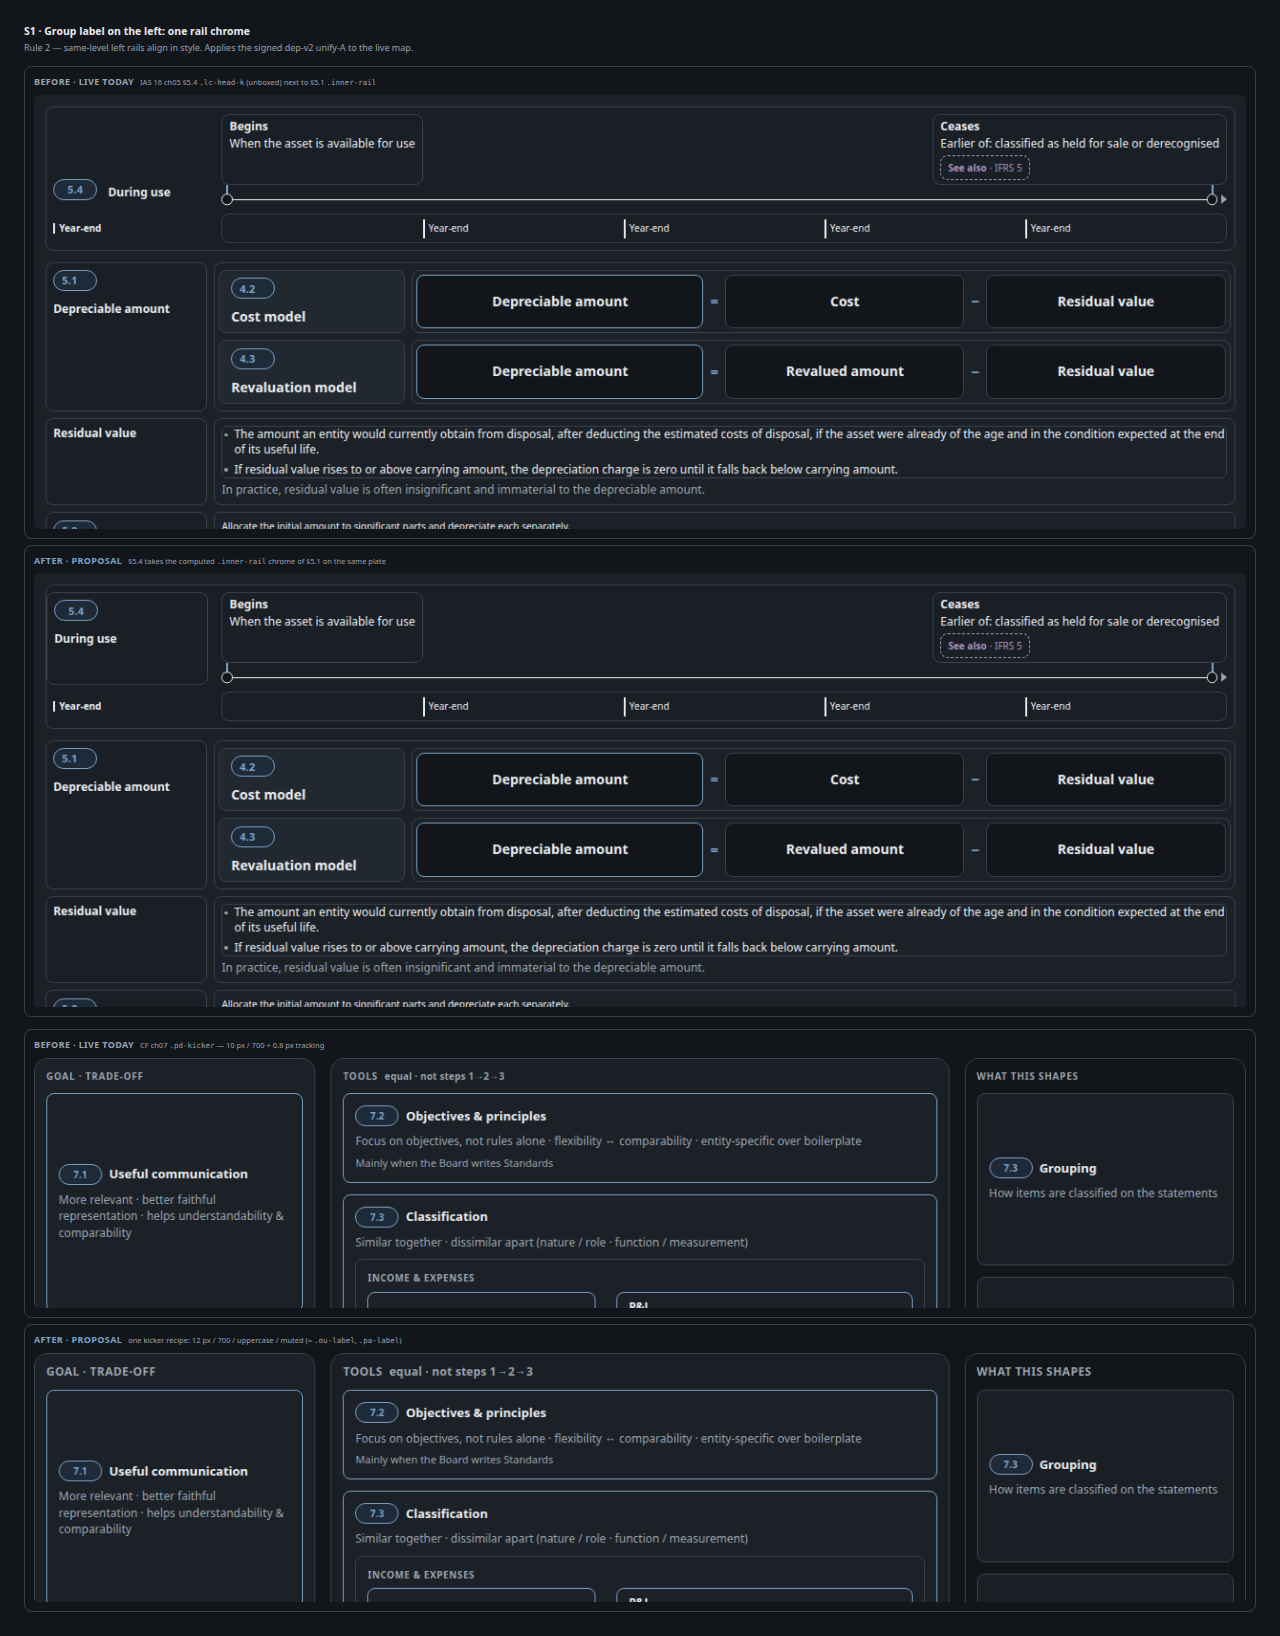
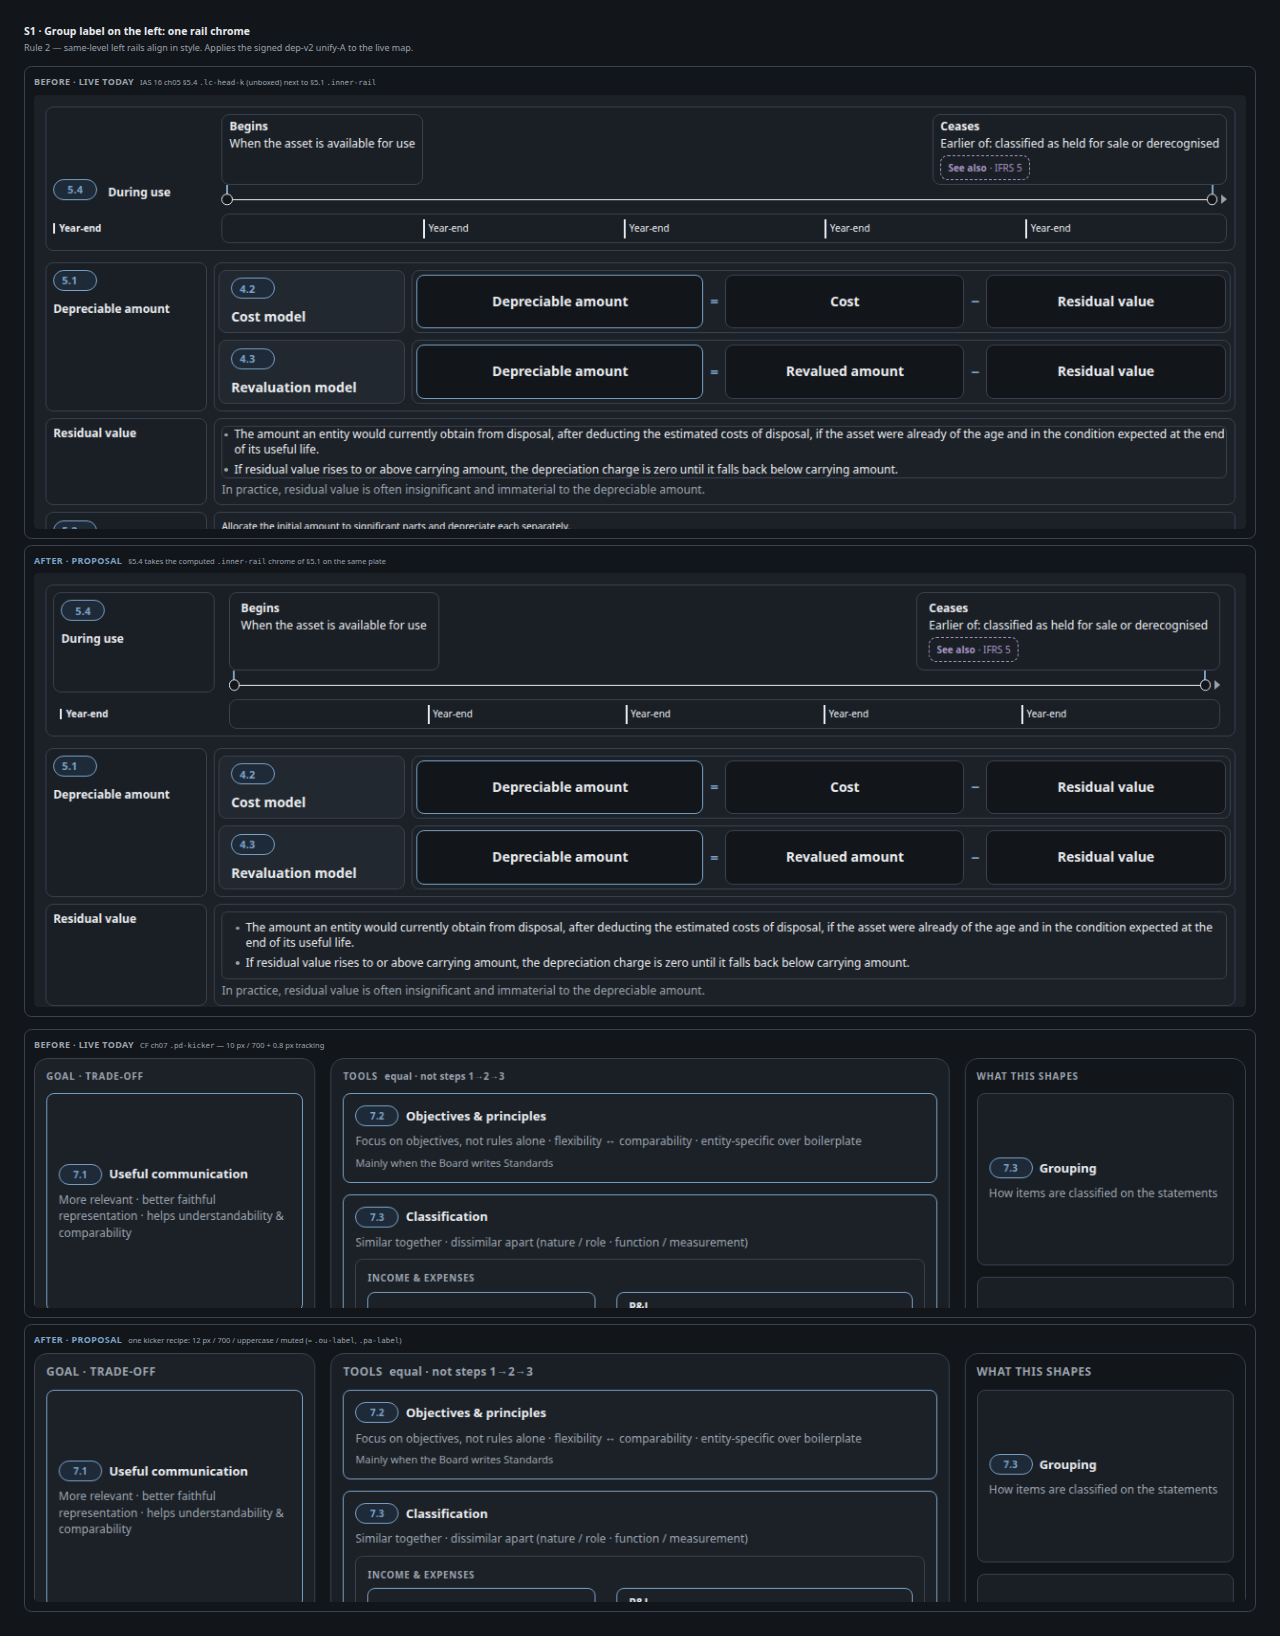
LEGO kit: after panes pad flush rows (IAS 2 master m-row chips, IAS 16 item-rows, lc-head rail, lc-end)

Changed region(s): [[0.1562, 0.3429, 0.9688, 0.6235], [0.0312, 0.3741, 0.125, 0.4988], [0.0312, 0.53, 0.0938, 0.5611]]

diff --git a/design/row98-lego-kit/tools/before_after.py b/design/row98-lego-kit/tools/before_after.py
@@ -56,7 +56,10 @@ MARK_LCA = """(sel) => {
 JOBS = [
     # S1 rail chrome: IAS 16 ch05 §5.4 "During use" gets the .inner-rail chrome of §5.1 on the same plate.
     dict(id="S01-ias16-ch05", file=I16 + "ch05-depreciation.html", sel=".ch05-dep > .inner-board", maxh=430,
-         css=".ppe .lc-top > .lc-head-k:not(.lc-band-k){align-self:stretch;align-items:flex-start}",
+         css=".ppe .lc-top > .lc-head-k:not(.lc-band-k){align-self:stretch;align-items:flex-start}"
+             ".ppe .ch05-dep .lc-head{padding-inline:var(--space-cell)}"
+             ".ppe .ch05-dep .lc-end{padding:var(--space-2) var(--space-3)}"
+             ".ppe .ch05-dep ul.item-rows{padding:var(--space-2) var(--space-3)}",
          js=(COPY_RAIL, {"src": ".cap .inner-rail", "dst": ".lc-top > .lc-head-k:not(.lc-band-k)"})),
     # S1(c) kicker recipe: CF ch07 .pd-kicker onto the .ou-label/.pa-label recipe (12px / 700 / uppercase / muted).
     dict(id="S01-cf-ch07-kicker", file=CF + "ch07-presentation-disclosure.html", sel=".pd-board", maxh=240,
@@ -86,7 +89,8 @@ JOBS = [
          css="aside.sec{border:var(--stroke-1) dashed var(--see)!important;background:transparent!important}"
              "aside.sec > *:first-child{color:var(--see)!important}"),
     dict(id="S05-ias16-ch04", file=I16 + "ch04-models.html", sel=".impair-comp", maxh=None,
-         css=".ppe .impair-comp.m-see{border-style:solid!important;border-color:var(--line)!important;background:var(--surface)!important}"),
+         css=".ppe .impair-comp.m-see{border-style:solid!important;border-color:var(--line)!important;background:var(--surface)!important}"
+             ".ppe .impair-comp ul.item-rows{padding:var(--space-2) var(--space-3)}"),
     dict(id="S05-cf-ch06", file=CF + "ch06-measurement.html", sel=".mx-see", maxh=None,
          css=".mx-see{border-color:var(--see)!important}.mx-see .see-label,.mx-see b,.mx-see strong{color:var(--see)!important}"),
     # S6 strip only on FS lines: traps become full-border warn.
@@ -150,7 +154,8 @@ JOBS = [
            body.textContent = ''; body.append(g, j, q);
          }""", None)),
     dict(id="E07-ias2-master", file=I2 + "map-formula-board.html", sel=".m-sum", maxh=None,
-         css=".m-out.e7-region{display:grid;grid-template-columns:auto minmax(0,1fr);column-gap:var(--space-3);align-items:start;"
+         css=".m-sum .m-row{padding:var(--space-2) var(--space-3)}"
+             ".m-out.e7-region{display:grid;grid-template-columns:auto minmax(0,1fr);column-gap:var(--space-3);align-items:start;"
              "padding-block:var(--space-2)}"
              ".e7-region > span{display:grid;gap:var(--space-2)}"
              ".e7-peers{display:grid;grid-template-columns:repeat(auto-fit,minmax(13rem,1fr));gap:var(--space-cell)}"
